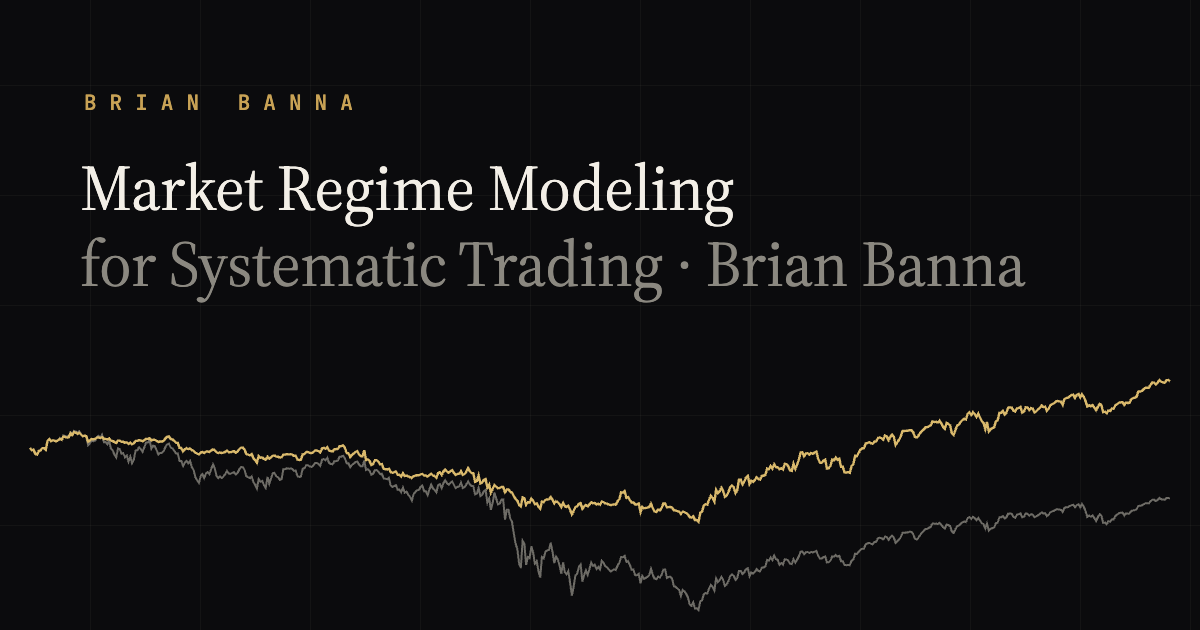
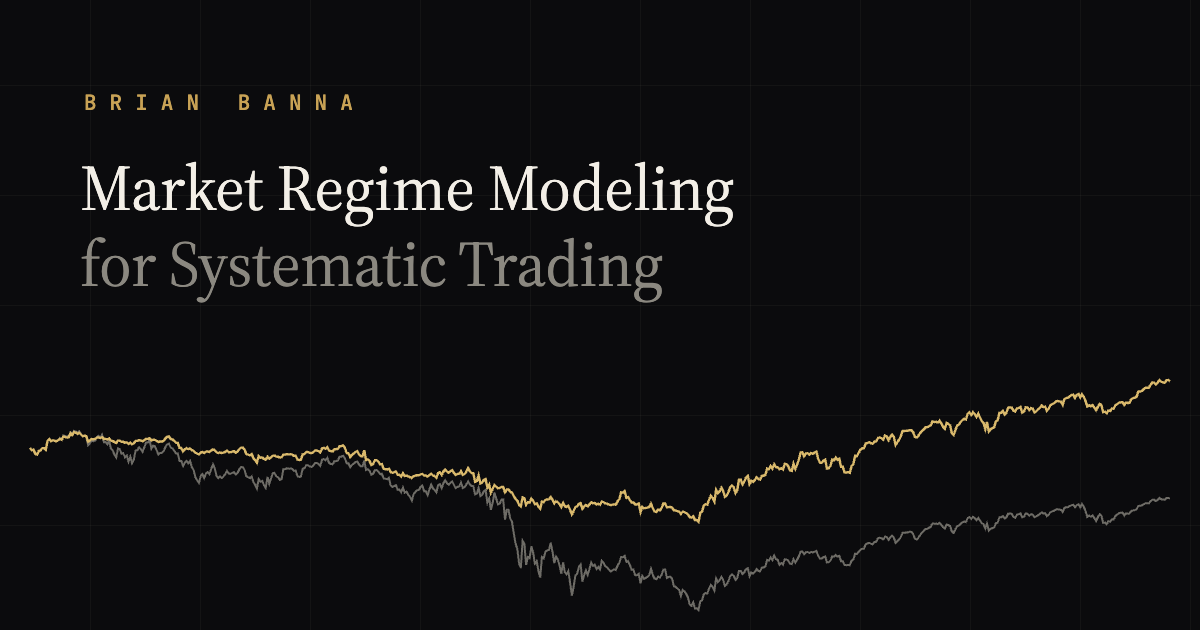
design pass fixes: og card name dedup, anchor offsets, lucide out of projects

Changed region(s): [[0.5858, 0.3619, 0.8633, 0.4524]]

diff --git a/app/components/sections/projects.tsx b/app/components/sections/projects.tsx
@@ -1,5 +1,4 @@
 import React from "react";
-import { ArrowUpRight, Github } from "lucide-react";
 
 interface ProjectsProject {
   title: string;
@@ -68,7 +67,7 @@ export const ProjectsSection: React.FC<ProjectsSectionProps> = ({
     <section
       id="projects"
       data-theme="gold"
-      className="relative bg-bg section-rail"
+      className="relative bg-bg section-rail scroll-mt-24"
     >
       <div className="noise" aria-hidden />
 
@@ -199,7 +198,7 @@ export const ProjectsSection: React.FC<ProjectsSectionProps> = ({
                         className="relative inline-flex items-center gap-1.5 px-3 py-1.5 bg-fg text-bg font-mono text-[10px] uppercase tracking-[0.14em] hover:bg-section transition-colors before:absolute before:-inset-y-2.5 before:inset-x-0 before:content-['']"
                       >
                         Live
-                        <ArrowUpRight className="w-3 h-3" />
+                        <span aria-hidden className="arrow-glyph" />
                       </a>
                     )}
                     {project.repository && (
@@ -209,7 +208,6 @@ export const ProjectsSection: React.FC<ProjectsSectionProps> = ({
                         rel="noopener noreferrer"
                         className="relative inline-flex items-center gap-1.5 px-3 py-1.5 border border-fg/25 text-fg/80 hover:text-fg hover:border-fg/60 font-mono text-[10px] uppercase tracking-[0.14em] transition-colors before:absolute before:-inset-y-2.5 before:inset-x-0 before:content-['']"
                       >
-                        <Github className="w-3 h-3" />
                         Source
                       </a>
                     )}

diff --git a/app/components/sections/contact.tsx b/app/components/sections/contact.tsx
@@ -50,7 +50,7 @@ export const ContactSection: React.FC = () => {
   return (
     <section
       id="contact"
-      className="relative bg-bg overflow-hidden section-rail"
+      className="relative bg-bg overflow-hidden section-rail scroll-mt-24"
     >
       <div
         className="absolute inset-0 bg-grid-fg bg-grid-64 opacity-30 [mask-image:radial-gradient(ellipse_at_center,black,transparent_70%)]"

diff --git a/app/components/sections/about.tsx b/app/components/sections/about.tsx
@@ -20,7 +20,7 @@ export const AboutSection: React.FC = () => {
   return (
     <section
       id="about"
-      className="relative bg-bg overflow-hidden section-rail"
+      className="relative bg-bg overflow-hidden section-rail scroll-mt-24"
     >
       <div
         className="absolute inset-0 bg-grid-fg bg-grid-64 opacity-30 [mask-image:linear-gradient(to_bottom,black,transparent)]"
